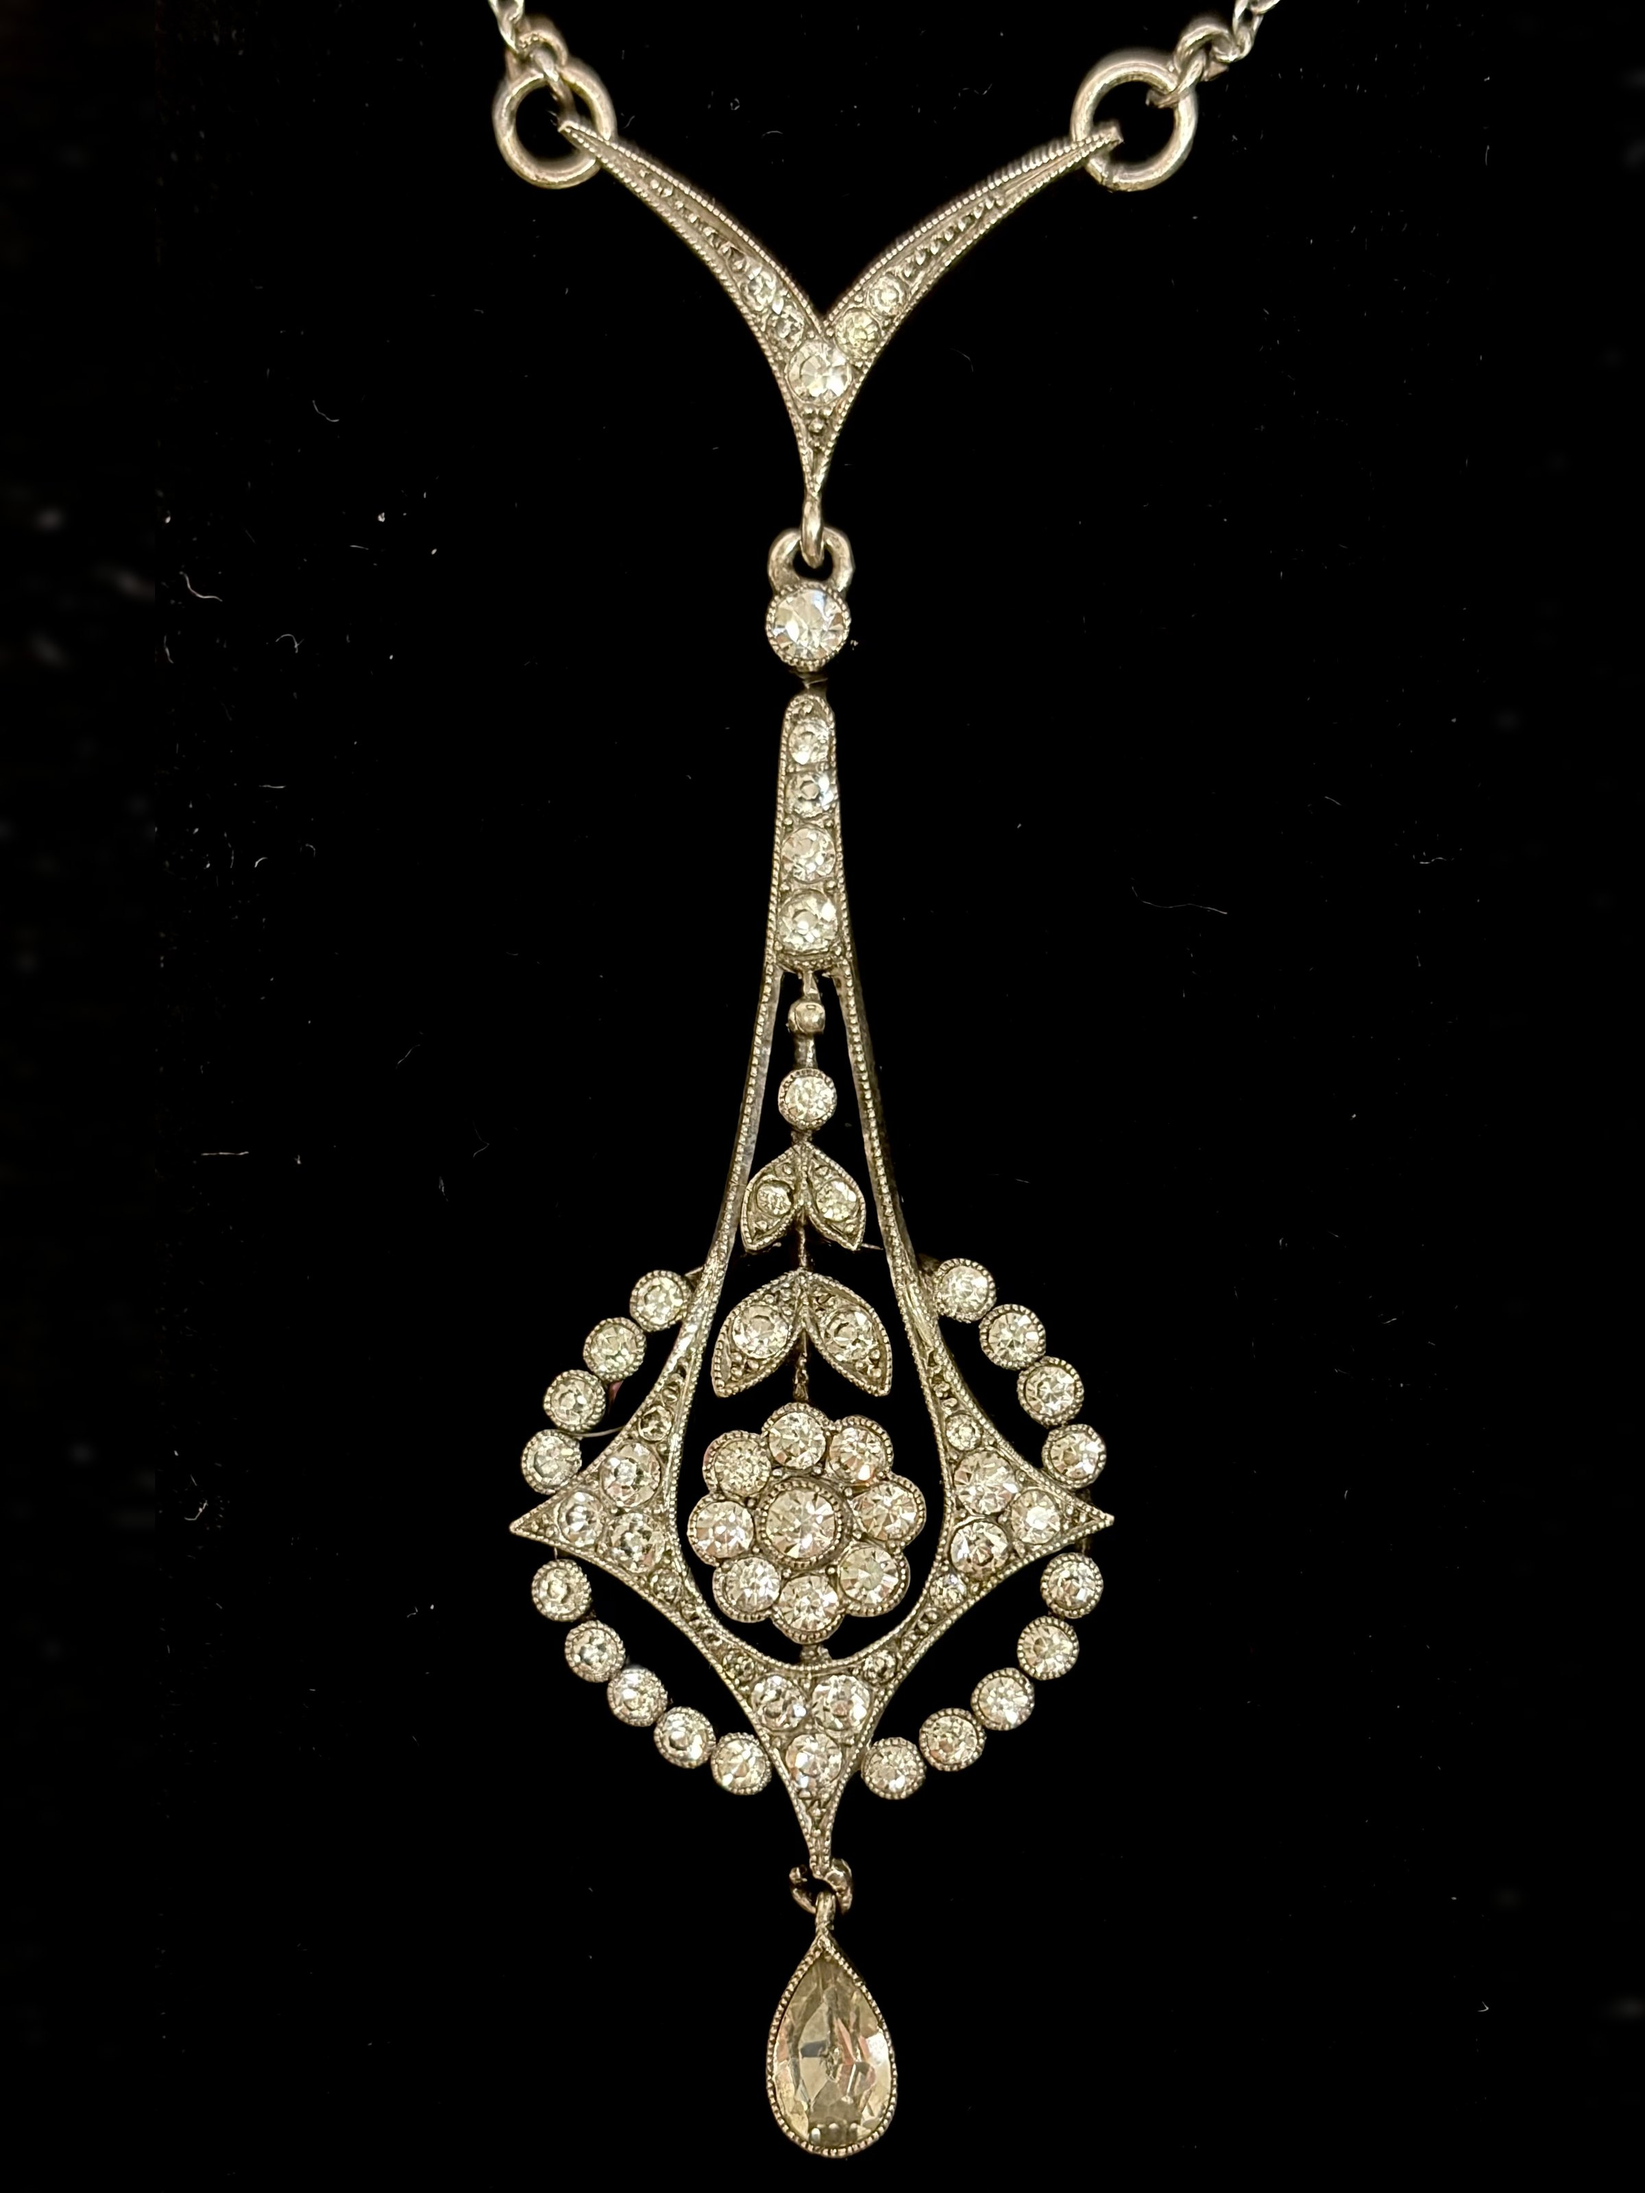
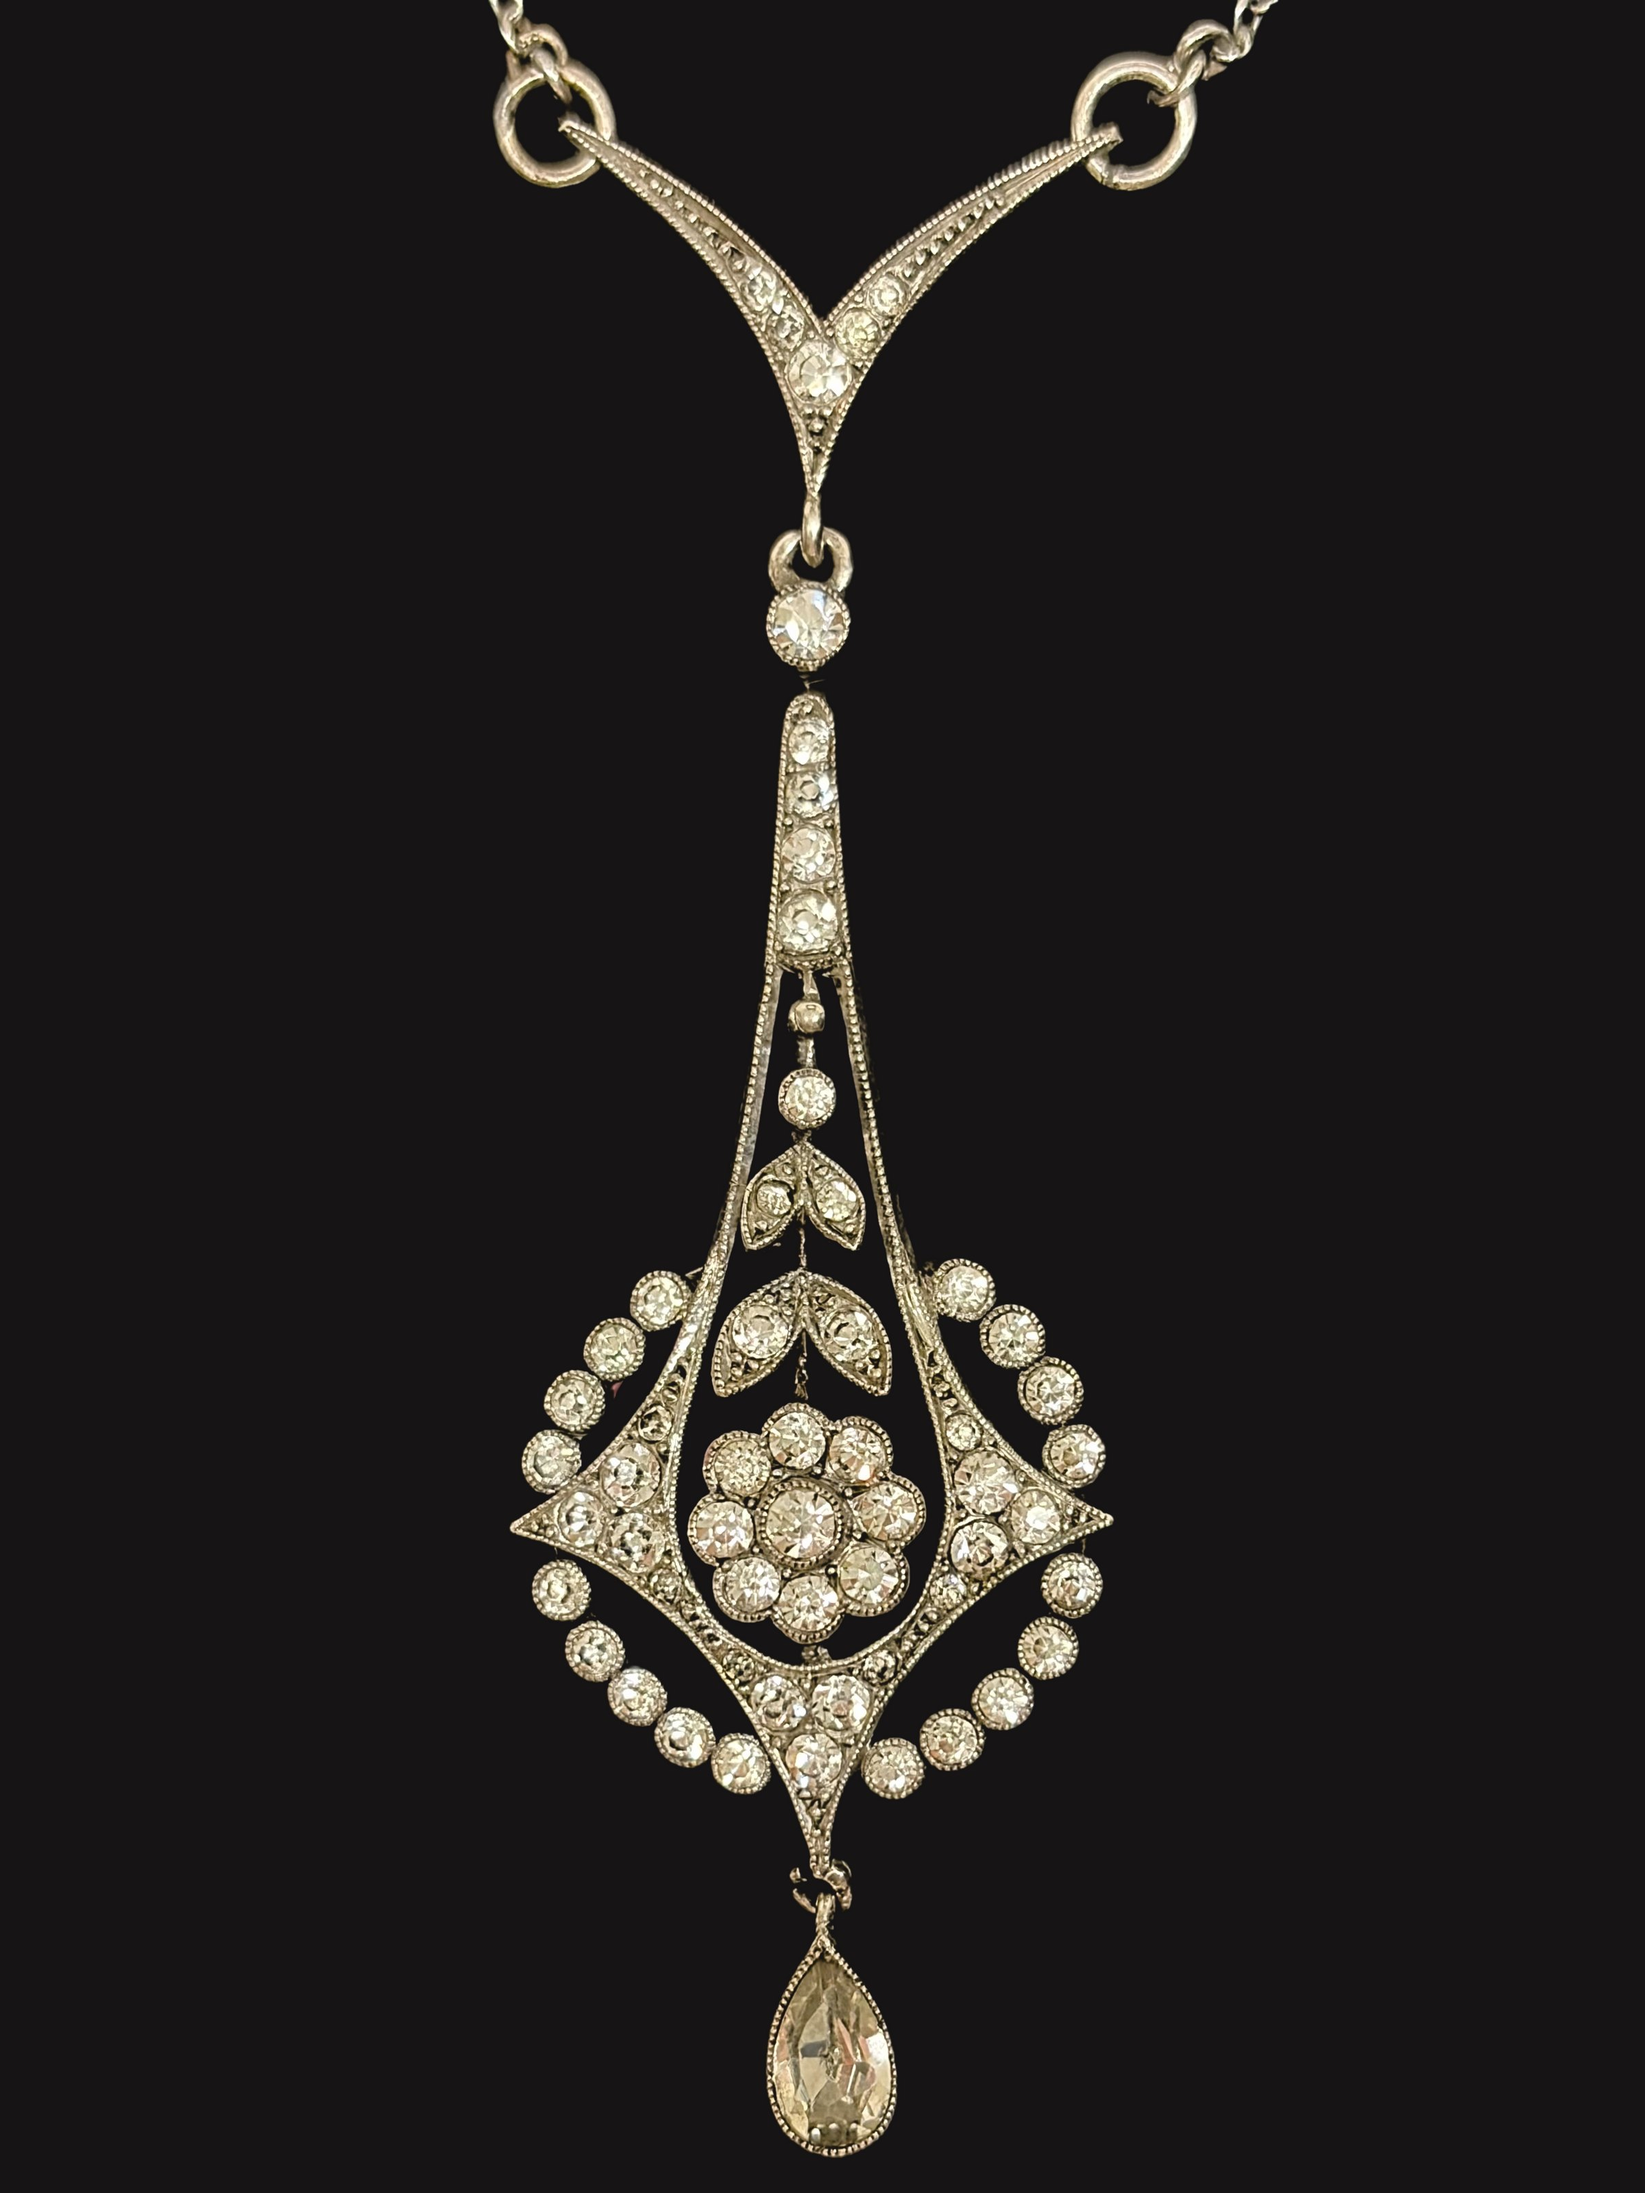
t018 札记备图：三张细部图入库，丝绒底换为站点黑底
新增 GROUND_SWAP：黑丝绒上的银色器物保持取景，抠出后把丝绒与浮毛换为 #161414。
t018 封面与细部图 c017b、c017c 用此法；c017d 印记特写用原图。札记条目待正文写成后再建。手册同步。

Claude-Session: https://claude.ai/code/session_0146WwfpqSoST3wS5kAsYEcA

diff --git a/tools/standardize.py b/tools/standardize.py
@@ -48,6 +48,10 @@ CHRONICLE_CUT_OUT = {"c004b", "c012b", "c012c", "c012d", "c002b", "c002c", "c002
 # Detail photographs whose top strip shows the chain the object hangs from: the fraction of the height cut off before
 # the cut-out, just above the object's own ring.
 CROP_TOP = {}
+# Photographs on black velvet kept in their own framing, with the velvet (and its lint) replaced by the site black
+# #161414: the object is cut out, dark velvet seen through openwork counts as ground, nothing is moved or rescaled.
+GROUND_SWAP = {"t018", "c017b", "c017c"}
+SWAP_GROUND = (22, 20, 20)
 # photographs on dark velvet whose ground is cleaned before fitting: lint and fibres are inpainted, the box rim and
 # lighter patches are flattened down to the velvet level; the objects themselves are untouched
 CLEAN_GROUND = {"t027", "c015b"}
@@ -173,6 +177,18 @@ def clean_ground(im, thresh=58, min_obj=20000, sigma=50):
     return Image.fromarray(np.clip(a.astype(float) * gain[..., None], 0, 255).astype(np.uint8))
 
 
+def ground_swap(im, session):
+    """Replace a dark velvet ground by SWAP_GROUND in place; the object keeps its position, size and framing."""
+    from rembg import remove
+    import cv2
+    a = np.asarray(remove(im, session=session, only_mask=True, post_process_mask=True)).astype(np.float32) / 255
+    rgb = np.asarray(im).astype(np.float32)
+    keep = a * np.clip((rgb.mean(2) - 45) / 30, 0, 1)        # velvet showing through the openwork is ground too
+    keep = cv2.GaussianBlur(keep, (0, 0), 1.0)[..., None]
+    out = rgb * keep + np.array(SWAP_GROUND, np.float32) * (1 - keep)
+    return Image.fromarray(out.clip(0, 255).astype(np.uint8))
+
+
 def is_plain_background(im, mask):
     """True when the outer 5% of the photograph, excluding the object, is close to one colour."""
     a = np.asarray(im.convert("RGB")).astype(np.float32); h, w = a.shape[:2]; n = max(4, int(0.05 * min(h, w)))
@@ -296,6 +312,7 @@ def main(argv):
             if cid in CHRONICLE_CUT_OUT:
                 os.makedirs(os.path.dirname(dst), exist_ok=True)
                 compose(cut_out(im, cid, session), cid, H).save(dst, quality=88, optimize=True); print(f"{cid}: cut out like its cover"); continue
+            if cid in GROUND_SWAP: im = ground_swap(im, session)
             if cid in CLEAN_GROUND: im = clean_ground(im)
             mask = object_mask(im, session)
             if cid not in CHRONICLE_FIT and not is_plain_background(im, mask): print(f"{cid}: textured background, left as it is"); continue
@@ -318,6 +335,7 @@ def main(argv):
             from rembg import new_session; session = new_session(MODEL)
         large = dst.replace("_standard.jpg", "_large.jpg")
         if iid in KEEP_BACKGROUND:
+            if iid in GROUND_SWAP: im = ground_swap(im, session)
             if iid in CLEAN_GROUND: im = clean_ground(im)
             mask = object_mask(im, session)
             out = fit_ratio(im, mask); how = "background kept, fitted to 3:4"

diff --git a/_notes/站点手册.md b/_notes/站点手册.md
@@ -141,7 +141,7 @@
 - 默认：抠出器物，置于浅灰米 `#E3DED4`（2026 年 10 月由暖白 `#F3F0E8` 改定：暖白与白卡片明度差过小，图片边界消失；奶油色因与镀金同色相否决），居中，占画幅 84%，加淡投影，亮度做温和归一，不改色相。
 - 盒内或盒上拍摄的照片保留原背景，只裁两侧、补纯背景至 3:4，不镜像内容：t003、t014、t015、t016、t019、t021、t022、t026、t027。
 - t014 伊莎贝拉正面与反面 c006b 于 2026 年 10 月以红呢盒底新照（1932×2576）重拍。曾试做浅灰米底抠图版，策展人决定不要，两张都按盒内照片保留红呢原底直接使用（`t014_standard`、`c006b_standard` 即原照缩放）；抠图版与去晕边代码均已移除，仓库中不留副本。旧照 `t014_v1.jpg`、`c006b_v1.jpg` 存于 `_archive/`。
-- 浅色与银质器物置于黑底 `#161414`：r009 巴尔曼、t029 西太后宝球项链（2026 年 10 月入馆，策展人正面照抠图；首版卖家照存 `_archive/treasures/t029_v1.jpg`）、t005 已删除；t018 保留原黑底照片。链条在原照中出画的吊坠（`TOP_ALIGN`，目前 t029）贴画面顶边放置，让链条从顶边进入而不是断在底色里。判定依据：器物边缘与暖白底明度差，边缘中 20% 以上贴近底色者改黑底。
+- 浅色与银质器物置于黑底 `#161414`：r009 巴尔曼、t029 西太后宝球项链（2026 年 10 月入馆，策展人正面照抠图；首版卖家照存 `_archive/treasures/t029_v1.jpg`）、t005 已删除；t018 保留原黑底照片的取景，但丝绒底与浮毛于 2026 年 10 月换为 `#161414`（`GROUND_SWAP`），与其札记细部图一致。链条在原照中出画的吊坠（`TOP_ALIGN`，目前 t029）贴画面顶边放置，让链条从顶边进入而不是断在底色里。判定依据：器物边缘与暖白底明度差，边缘中 20% 以上贴近底色者改黑底。
 - 深色底上不加投影。
 - 全站不按类别用不同底色（酒红、深灰方案已试做并否决）。
 
@@ -160,6 +160,7 @@
 
 - 原则：封面为抠图的勋章与珠宝，其细部图（含近景）同样抠图，背景与封面一致；礼服的领、袖、纽扣、商标近景不抠（背景就是衣服本身，分割会产生空洞与撕边，已试样否决）；封面保留盒子或灰底者，其细部图保持照片原样。
 - `CROP_TOP`：细部图顶端拍进了所挂的链条时，抠图前先按比例裁去顶部，刚好留下器物自己的吊环。目前没有条目在用（曾用于 c016 旧细部图）。
+- `GROUND_SWAP`：黑丝绒上拍的银色器物，取景不动，抠出器物后把丝绒（含镂空处透出的丝绒与浮毛）换成 `#161414`，不移动、不缩放。目前为 t018 及其札记细部图 c017b、c017c（2026 年 10 月，策展人定）。c017d 为背面印记特写（「830」与 KP 王冠盾形印记），画面全是金属，不做处理，直接用原图。c017 札记正文待策展人写成后再建条目，图组为 grid4：t018 封面加 c017b–c017d。
 - `CHRONICLE_FIT`：有纹理原底但仍需补足 3:4 的细部图：c006b（红呢盒底）、c015b（黑丝绒盒底）。
 - `CLEAN_GROUND`：黑丝绒盒底照片在补足比例前先清理底面：器物以外的浮毛与纤维用周围绒面修补，盒沿与受光较亮的区域按低频照度拉平到绒面水平（只压暗不提亮）；器物与绶带毛边不动。目前为 t027 与 c015b（2026 年 10 月，策展人要求）。c015d 原盒照片由桌面抠出置于浅灰米底。
 - 纯色背景的细部图补足 3:4：c002c、c004b、c012b、c012c、c012d、c013f 有 `_standard` 版本；其余直接用原图。
